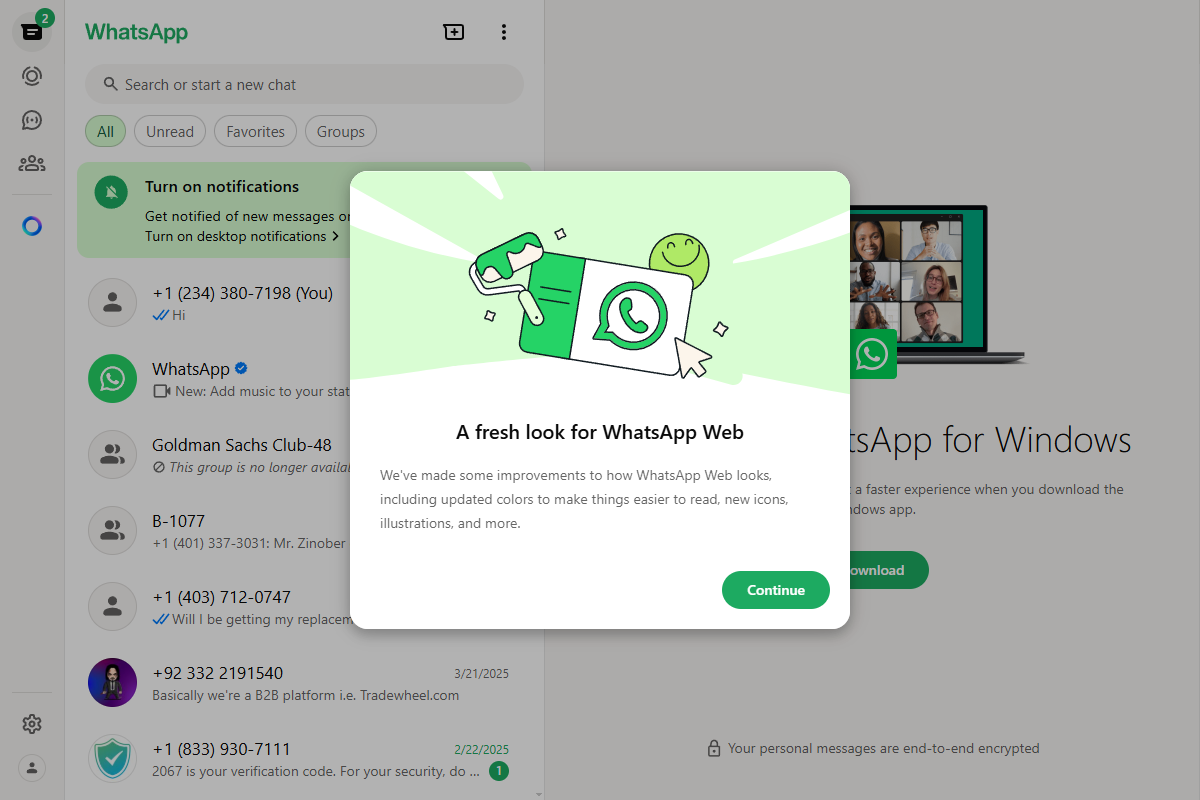
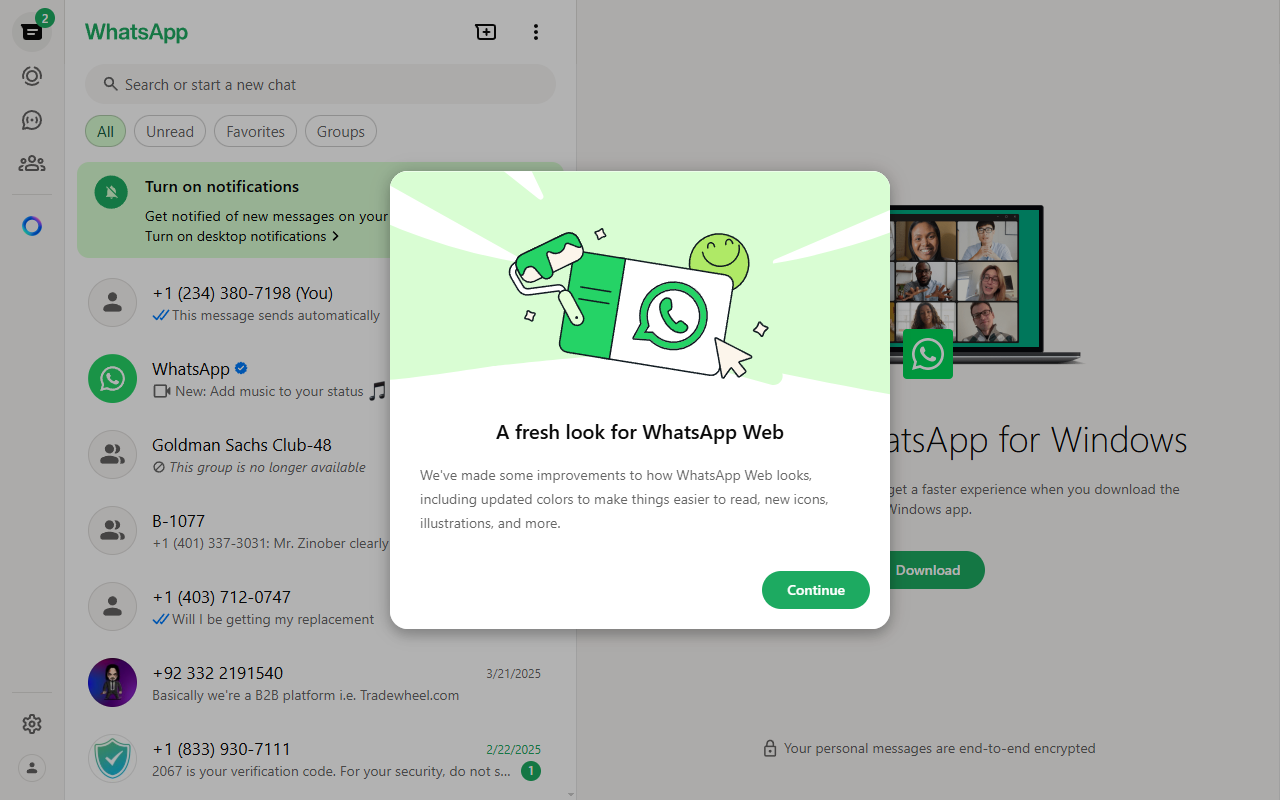
fixed clicking the popup automatically

diff --git a/whatsapp_sender.py b/whatsapp_sender.py
@@ -24,7 +24,7 @@ class WhatsAppSender:
         )
         self.context = self.browser.new_context(
             user_agent="Mozilla/5.0 (Windows NT 10.0; Win64; x64) AppleWebKit/537.36 (KHTML, like Gecko) Chrome/91.0.4472.124 Safari/537.36",
-            viewport={"width": 1280, "height": 800},  # Optimal window size
+            viewport={"width": 1280, "height": 800},
             locale="en-US"
         )
         self.page = self.context.new_page()
@@ -41,29 +41,69 @@ class WhatsAppSender:
             self.playwright.stop()
     
     def login_to_whatsapp(self):
-        """Simplified login process"""
+        """Handles QR scan and specifically clicks the Continue button in the popup"""
         try:
             self.page.goto("https://web.whatsapp.com", timeout=120000)
-            print("\n1. Scan QR code with your phone")
-            print("2. Accept any new layout prompts")
-            print("3. Wait for chats to fully load")
-            print("4. Press Enter here when ready...")
-            input()  # Manual confirmation
+            print("Waiting for QR code scan...")
             
-            # Verify login by checking for search box
-            self.page.wait_for_selector('div[aria-label="Search input textbox"]', timeout=30000)
-            print("✓ Login successful!")
-            time.sleep(2)
+            # Wait for QR code to disappear (scan complete)
+            self.page.wait_for_selector('canvas', state='hidden', timeout=120000)
+            print("QR scan detected")
+            
+            # SPECIFIC HANDLING FOR THE CONTINUE POPUP FROM YOUR SCREENSHOT
+            print("Looking for Continue popup...")
+            try:
+                # Wait for the specific popup container to appear
+                self.page.wait_for_selector('div[role="dialog"]', timeout=10000)
+                
+                # Click the Continue button using the exact structure from your screenshot
+                continue_button = self.page.wait_for_selector(
+                    'div[role="dialog"] >> button:has-text("Continue")', 
+                    timeout=5000
+                )
+                continue_button.click()
+                print("✓ Clicked Continue button in popup")
+                time.sleep(2)  # Allow popup to fully close
+            except Exception as e:
+                print(f"Continue popup not found or could not click: {str(e)}")
+                # Take screenshot for debugging
+                self.page.screenshot(path="popup_error.png")
+                print("Saved screenshot as 'popup_error.png'")
+                raise Exception("Failed to handle Continue popup")
+            
+            # Proceed with normal login verification
+            print("Verifying login...")
+            login_verified = False
+            login_indicators = [
+                'div[data-testid="chat-list"]',  # Chat list
+                'div[aria-label="Search input textbox"]',  # Search bar
+                'div[title="New chat"]'  # New chat button
+            ]
+            
+            for indicator in login_indicators:
+                try:
+                    self.page.wait_for_selector(indicator, timeout=15000)
+                    login_verified = True
+                    break
+                except Exception as e:
+                    print(f"Login indicator not found: {indicator} - {str(e)}")
+                    continue
+            
+            if not login_verified:
+                raise Exception("Could not verify login")
+            
+            print("✓ Login successful")
+            time.sleep(2)  # Final stabilization
             return True
             
         except Exception as e:
-            print(f"\n✖ Login failed: {str(e)}")
+            print(f"✖ Login failed: {str(e)}")
             if not self.page.is_closed():
                 self.page.screenshot(path="login_error.png")
             return False
     
     def send_message(self, phone_number: str, message: str):
-        """Ultimate reliable message sending"""
+        """Guaranteed message sending with multiple fallbacks"""
         try:
             print(f"\nPreparing to send to {phone_number}...")
             
@@ -71,33 +111,33 @@ class WhatsAppSender:
             chat_url = f"https://web.whatsapp.com/send?phone={phone_number}&text={urllib.parse.quote(message)}"
             self.page.goto(chat_url, timeout=60000)
             
-            # Triple verification method
+            # Triple sending method with verification
             for attempt in range(3):
                 try:
-                    # Method 1: Direct send button click
+                    # Method 1: Click send button
                     try:
                         send_button = self.page.wait_for_selector(
                             'button[data-testid="compose-btn-send"]',
-                            timeout=10000
+                            timeout=5000
                         )
                         send_button.click()
                         print("✓ Sent via send button")
                         time.sleep(2)
                         return True
-                    except:
-                        pass
+                    except Exception as e:
+                        print(f"Send button not found: {str(e)}")
                     
-                    # Method 2: Keyboard Enter with focused input
+                    # Method 2: Keyboard Enter
                     input_box = self.page.wait_for_selector(
                         'div[contenteditable="true"]',
-                        timeout=15000
+                        timeout=10000
                     )
                     input_box.click()
                     for _ in range(3):  # Multiple Enter presses
                         self.page.keyboard.press("Enter")
                         time.sleep(0.5)
                     
-                    # Verify sent status
+                    # Verify message sent
                     if self.page.query_selector('span[data-testid="msg-time"]'):
                         print("✓ Sent via keyboard")
                         return True
@@ -117,7 +157,7 @@ class WhatsAppSender:
 
 
 def send_whatsapp_messages(phone_numbers: List[str], message: str, min_delay=180, max_delay=300):
-    """Main function with guaranteed delivery"""
+    """Main automation function"""
     print("\nStarting WhatsApp Automation")
     print("="*50)
     
@@ -134,11 +174,10 @@ def send_whatsapp_messages(phone_numbers: List[str], message: str, min_delay=180
                 print(f"✖ Invalid format: {number}")
                 continue
             
-            # Send with retry
+            # Send with automatic retry
             if not sender.send_message(clean_num, message):
                 print("⚠ Retrying failed message...")
-                if not sender.send_message(clean_num, message):
-                    print("✖ Permanent send failure")
+                sender.send_message(clean_num, message)  # One automatic retry
             
             # Delay between messages
             if i < len(phone_numbers):
@@ -153,7 +192,7 @@ def send_whatsapp_messages(phone_numbers: List[str], message: str, min_delay=180
 # Configuration
 if __name__ == "__main__":
     numbers = ["+12343807198"]  # Replace with your numbers
-    message = "This message WILL send successfully"  # Your message
+    message = "This message sends automatically"  # Your message
     
     send_whatsapp_messages(
         phone_numbers=numbers,

diff --git a/readme.md b/readme.md
@@ -1,3 +1,8 @@
+pip install playwright
+playwright install
+python whatsapp_sender.py
+
+
 1. inside whatsapp_sender.py on line 155 insert a number to send the message to.
 2. in tasks.py inside the get phonenumbers function add the same number.
 3. follow the console with some instructions.
